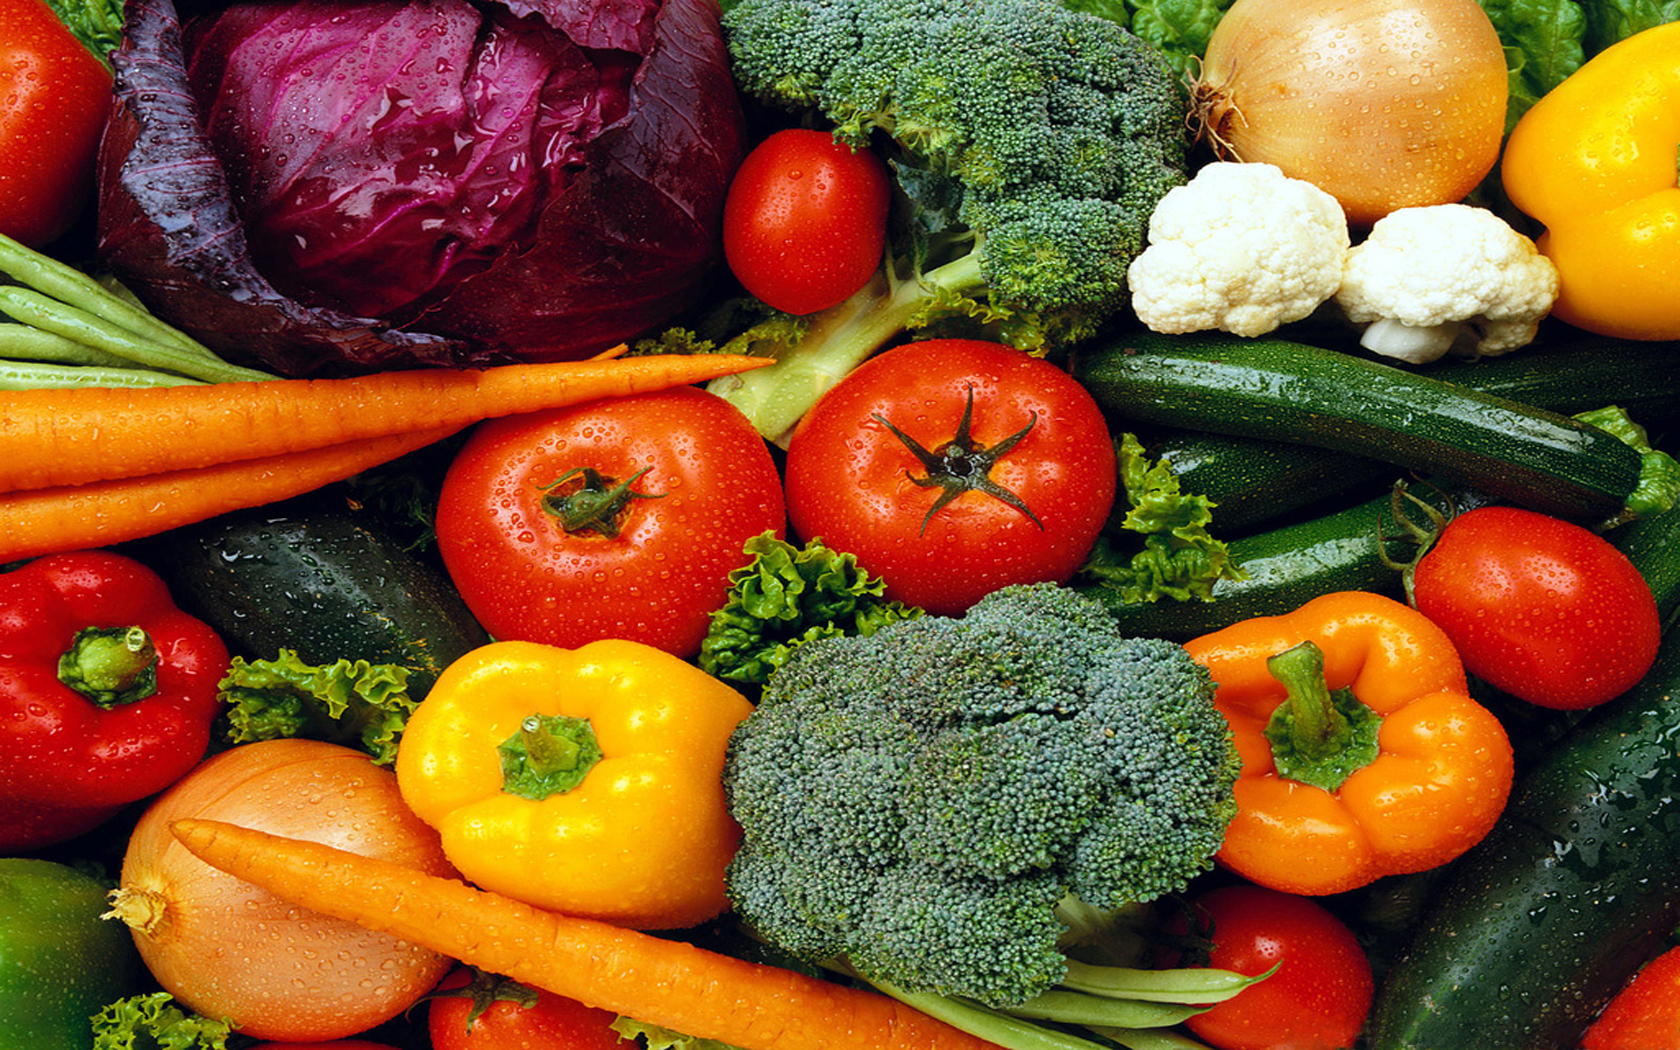
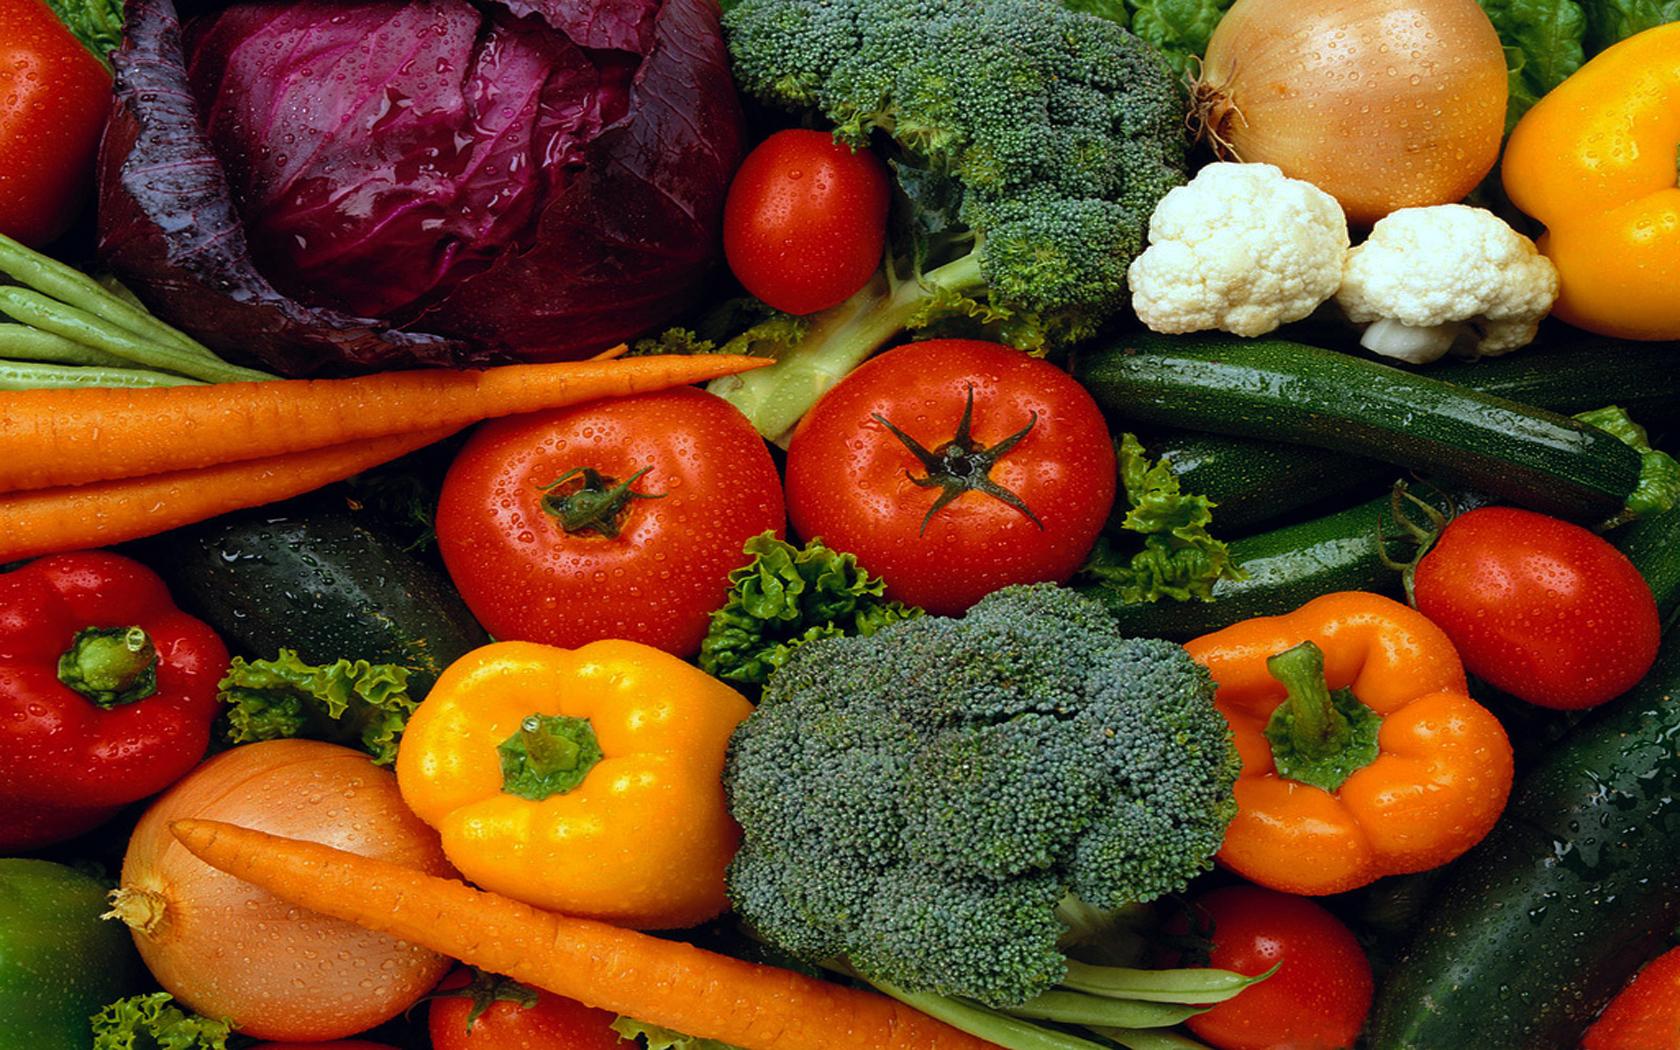
adjusted brightness of backdrop, gave outline to headers for better visibility

diff --git a/assets/css/bmi.css b/assets/css/bmi.css
@@ -58,6 +58,7 @@ h1{
     font-size:40px;
     text-align: center;
 
+
 }
 
 h2{
@@ -89,7 +90,10 @@ h2{
 
 #currentDay{
     text-align:center;
-    
+    color: white;
+    -webkit-text-stroke: 1px black;
+    font-weight: bold;
+    font-size: 24px;
 }
 
 p{
@@ -107,19 +111,17 @@ p{
 }
 
 body {
-    background-image: url("../images/alt-veggie-backdrop1.jpg");
+    background-image: url("../images/alt-veggie-backdrop1-edited.jpg");
     background-size: 100% 100%;
 }
 
 
 .header {
-    /* height: 140px; */
     justify-content: left;
     font-size: 40px;
     font-weight: bold;
-    /* margin-bottom: 20px; */
-    /* background-color:none;  */
-    color: tomato;
+    color: white;
+    -webkit-text-stroke: 1px black;
     
 }
 

diff --git a/assets/css/style.css b/assets/css/style.css
@@ -1,5 +1,5 @@
 body {
-    background-image: url("../images/alt-veggie-backdrop1.jpg");
+    background-image: url("../images/alt-veggie-backdrop1-edited.jpg");
     background-size: 100% 100%;
 }
 
@@ -7,7 +7,9 @@ body {
     justify-content: left;
     font-size: 40px;
     font-weight: bold;
-    color: tomato;
+    color: white;
+    text-align: center;
+    -webkit-text-stroke: 1px black;
 }
 
 #footer {
